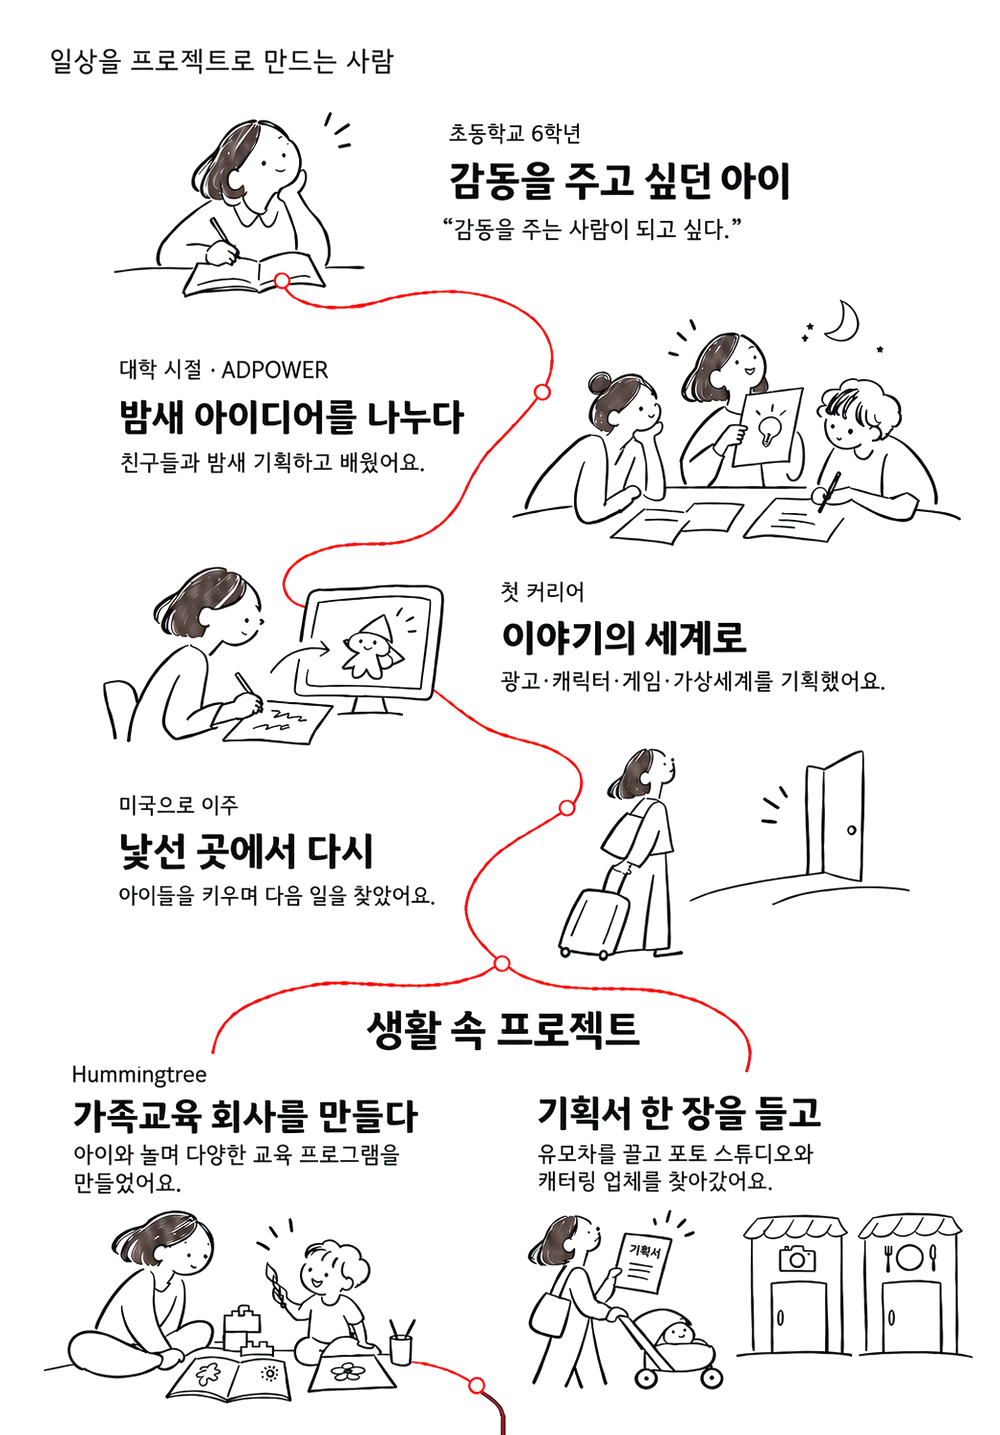
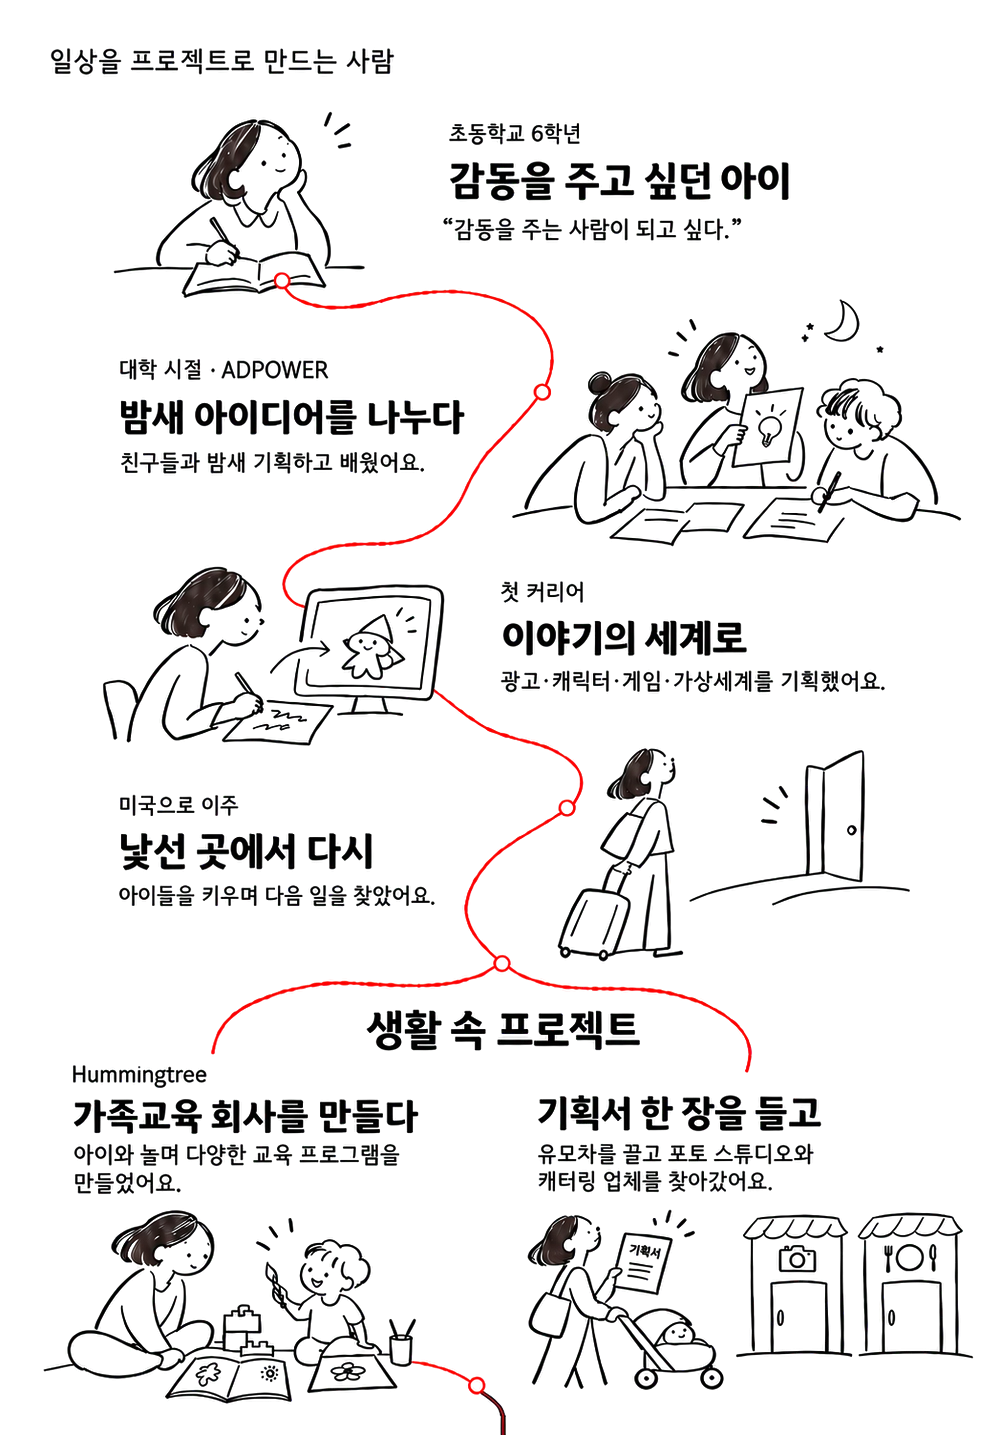
Show English story illustrations in the English view
The three story illustrations are lettered in Korean, so each now has an
English version: the same drawing with its text replaced by an English
translation set in Inter. The language switch shows only the matching
set, and because the images are lazy-loaded the hidden set is never
downloaded. Alt text and the card label are bilingual too.

Also re-exports the Korean images with a gentler paper threshold: the
light grey tag pills (라디오 코리아, 지금 · 함께하는 일, etc.) had been
bleached almost invisible.

Claude-Session: https://claude.ai/code/session_019GEG56SYYFRMRsvBGsGr5e

diff --git a/team/eunyoung.html b/team/eunyoung.html
@@ -423,6 +423,10 @@
   .story .role{padding:0 24px; margin-bottom:4px; font-family:var(--mono); font-size:11px; letter-spacing:0.22em; text-transform:uppercase; color:var(--ink-700);}
   .story a{display:block;}
   .story img{display:block; width:100%; height:auto;}
+  /* Each image comes in a Korean and an English version; the language script sets
+     <html lang> and only the matching set is shown. The images are lazy, so the hidden
+     set is never downloaded. */
+  html[lang="ko"] .story a.en, html:not([lang="ko"]) .story a.ko{display:none;}
 </style>
 </head>
 <body>
@@ -462,9 +466,12 @@
 
         <section class="card story" aria-labelledby="eunyoung-story">
           <div class="role" id="eunyoung-story" data-i18n="eunyoung.story">The story so far</div>
-          <a href="/assets/team/eunyoung-story-1.webp" target="_blank" rel="noopener"><img src="/assets/team/eunyoung-story-1.webp" width="1000" height="1435" alt="일상을 프로젝트로 만드는 사람: 감동을 주고 싶던 초등학생, 대학 시절 ADPOWER에서 밤새 나눈 아이디어, 광고·캐릭터·게임을 기획한 첫 커리어, 미국 이주, 가족교육 회사 Hummingtree와 기획서 한 장으로 시작한 생활 속 프로젝트." decoding="async"></a>
-          <a href="/assets/team/eunyoung-story-2.webp" target="_blank" rel="noopener"><img src="/assets/team/eunyoung-story-2.webp" width="1000" height="1374" alt="가족의 대화에서 AI 제품까지: 라디오 코리아의 가족 영화 토론 프로그램, 이민 여성의 새 출발을 도운 Simple Steps, 청소년과 가족을 위한 배움의 장 Culture Dots, AI 서비스를 기획하고 출시한 Dotdotdot." loading="lazy" decoding="async"></a>
-          <a href="/assets/team/eunyoung-story-3.webp" target="_blank" rel="noopener"><img src="/assets/team/eunyoung-story-3.webp" width="1000" height="1436" alt="지금 만드는 일, 앞으로의 꿈: 가족이 서로를 이해하고 챙기도록 돕는 AI를 만드는 Homming, USC 대학원에서 에이징테크 공부, City of Bellevue에서 시민의 대화를 여는 일, 그리고 여든에 스탠드업 코미디언으로 데뷔하는 꿈." loading="lazy" decoding="async"></a>
+          <a class="ko" lang="ko" href="/assets/team/eunyoung-story-1.webp" target="_blank" rel="noopener"><img src="/assets/team/eunyoung-story-1.webp" width="1000" height="1435" alt="일상을 프로젝트로 만드는 사람: 감동을 주고 싶던 초등학생, 대학 시절 ADPOWER에서 밤새 나눈 아이디어, 광고·캐릭터·게임을 기획한 첫 커리어, 미국 이주, 가족교육 회사 Hummingtree와 기획서 한 장으로 시작한 생활 속 프로젝트." loading="lazy" decoding="async"></a>
+          <a class="en" lang="en" href="/assets/team/eunyoung-story-1-en.webp" target="_blank" rel="noopener"><img src="/assets/team/eunyoung-story-1-en.webp" width="1000" height="1435" alt="Someone who turns everyday life into projects: a sixth grader who wanted to move people, nights of sharing ideas at ADPOWER in college, a first career planning ads, characters and games, the move to the U.S., and everyday projects from the family education company Hummingtree to pitching with a single proposal." loading="lazy" decoding="async"></a>
+          <a class="ko" lang="ko" href="/assets/team/eunyoung-story-2.webp" target="_blank" rel="noopener"><img src="/assets/team/eunyoung-story-2.webp" width="1000" height="1374" alt="가족의 대화에서 AI 제품까지: 라디오 코리아의 가족 영화 토론 프로그램, 이민 여성의 새 출발을 도운 Simple Steps, 청소년과 가족을 위한 배움의 장 Culture Dots, AI 서비스를 기획하고 출시한 Dotdotdot." loading="lazy" decoding="async"></a>
+          <a class="en" lang="en" href="/assets/team/eunyoung-story-2-en.webp" target="_blank" rel="noopener"><img src="/assets/team/eunyoung-story-2-en.webp" width="1000" height="1374" alt="From family conversations to AI products: a film discussion program for families on Radio Korea, Simple Steps helping immigrant women start fresh, Culture Dots creating learning spaces for teens and families, and Dotdotdot, where she led the planning and launch of AI services." loading="lazy" decoding="async"></a>
+          <a class="ko" lang="ko" href="/assets/team/eunyoung-story-3.webp" target="_blank" rel="noopener"><img src="/assets/team/eunyoung-story-3.webp" width="1000" height="1436" alt="지금 만드는 일, 앞으로의 꿈: 가족이 서로를 이해하고 챙기도록 돕는 AI를 만드는 Homming, USC 대학원에서 에이징테크 공부, City of Bellevue에서 시민의 대화를 여는 일, 그리고 여든에 스탠드업 코미디언으로 데뷔하는 꿈." loading="lazy" decoding="async"></a>
+          <a class="en" lang="en" href="/assets/team/eunyoung-story-3-en.webp" target="_blank" rel="noopener"><img src="/assets/team/eunyoung-story-3-en.webp" width="1000" height="1436" alt="Now, and the dream ahead: Homming, an AI that helps families understand and care for each other; graduate study in AgeTech at USC; opening civic conversations with the City of Bellevue; and a dream of debuting as a stand-up comic at 80." loading="lazy" decoding="async"></a>
         </section>
       </div>
       <div class="more"><a href="/team" data-i18n="all">Everyone at Homming &rarr;</a></div>

diff --git a/scripts/build_team.py b/scripts/build_team.py
@@ -46,17 +46,28 @@ PEOPLE = [
             ],
         },
         "links": [],
-        # Illustrated timeline shown below the intro on her own page only. The three images
-        # continue one red thread, so they are stacked without gaps in this order.
+        # Illustrated timeline shown below the intro on her own page only. The art is lettered,
+        # so each image has a Korean original and an English version (same drawing, text
+        # replaced); the language switch shows one set. The three images continue one red
+        # thread, so they are stacked without gaps in this order.
         "story": {
             "label": {"en": "The story so far", "ko": "지금까지의 이야기"},
             "images": [
-                ("/assets/team/eunyoung-story-1.webp", 1000, 1435,
-                 "일상을 프로젝트로 만드는 사람: 감동을 주고 싶던 초등학생, 대학 시절 ADPOWER에서 밤새 나눈 아이디어, 광고·캐릭터·게임을 기획한 첫 커리어, 미국 이주, 가족교육 회사 Hummingtree와 기획서 한 장으로 시작한 생활 속 프로젝트."),
-                ("/assets/team/eunyoung-story-2.webp", 1000, 1374,
-                 "가족의 대화에서 AI 제품까지: 라디오 코리아의 가족 영화 토론 프로그램, 이민 여성의 새 출발을 도운 Simple Steps, 청소년과 가족을 위한 배움의 장 Culture Dots, AI 서비스를 기획하고 출시한 Dotdotdot."),
-                ("/assets/team/eunyoung-story-3.webp", 1000, 1436,
-                 "지금 만드는 일, 앞으로의 꿈: 가족이 서로를 이해하고 챙기도록 돕는 AI를 만드는 Homming, USC 대학원에서 에이징테크 공부, City of Bellevue에서 시민의 대화를 여는 일, 그리고 여든에 스탠드업 코미디언으로 데뷔하는 꿈."),
+                {"w": 1000, "h": 1435,
+                 "ko": ("/assets/team/eunyoung-story-1.webp",
+                        "일상을 프로젝트로 만드는 사람: 감동을 주고 싶던 초등학생, 대학 시절 ADPOWER에서 밤새 나눈 아이디어, 광고·캐릭터·게임을 기획한 첫 커리어, 미국 이주, 가족교육 회사 Hummingtree와 기획서 한 장으로 시작한 생활 속 프로젝트."),
+                 "en": ("/assets/team/eunyoung-story-1-en.webp",
+                        "Someone who turns everyday life into projects: a sixth grader who wanted to move people, nights of sharing ideas at ADPOWER in college, a first career planning ads, characters and games, the move to the U.S., and everyday projects from the family education company Hummingtree to pitching with a single proposal.")},
+                {"w": 1000, "h": 1374,
+                 "ko": ("/assets/team/eunyoung-story-2.webp",
+                        "가족의 대화에서 AI 제품까지: 라디오 코리아의 가족 영화 토론 프로그램, 이민 여성의 새 출발을 도운 Simple Steps, 청소년과 가족을 위한 배움의 장 Culture Dots, AI 서비스를 기획하고 출시한 Dotdotdot."),
+                 "en": ("/assets/team/eunyoung-story-2-en.webp",
+                        "From family conversations to AI products: a film discussion program for families on Radio Korea, Simple Steps helping immigrant women start fresh, Culture Dots creating learning spaces for teens and families, and Dotdotdot, where she led the planning and launch of AI services.")},
+                {"w": 1000, "h": 1436,
+                 "ko": ("/assets/team/eunyoung-story-3.webp",
+                        "지금 만드는 일, 앞으로의 꿈: 가족이 서로를 이해하고 챙기도록 돕는 AI를 만드는 Homming, USC 대학원에서 에이징테크 공부, City of Bellevue에서 시민의 대화를 여는 일, 그리고 여든에 스탠드업 코미디언으로 데뷔하는 꿈."),
+                 "en": ("/assets/team/eunyoung-story-3-en.webp",
+                        "Now, and the dream ahead: Homming, an AI that helps families understand and care for each other; graduate study in AgeTech at USC; opening civic conversations with the City of Bellevue; and a dream of debuting as a stand-up comic at 80.")},
             ],
         },
     },
@@ -167,6 +178,10 @@ STORY_CSS = """<style>
   .story .role{padding:0 24px; margin-bottom:4px; font-family:var(--mono); font-size:11px; letter-spacing:0.22em; text-transform:uppercase; color:var(--ink-700);}
   .story a{display:block;}
   .story img{display:block; width:100%; height:auto;}
+  /* Each image comes in a Korean and an English version; the language script sets
+     <html lang> and only the matching set is shown. The images are lazy, so the hidden
+     set is never downloaded. */
+  html[lang="ko"] .story a.en, html:not([lang="ko"]) .story a.ko{display:none;}
 </style>"""
 
 
@@ -191,19 +206,19 @@ def card(p: dict, lang: str = "en") -> str:
         </article>'''
 
 
-def story(p: dict, lang: str = "en") -> str:
+def story(p: dict) -> str:
     s = p.get("story")
     if not s:
         return ""
     imgs = "\n".join(
-        f'          <a href="{src}" target="_blank" rel="noopener"><img src="{src}" width="{w}" height="{h}" alt="{alt}"'
-        f'{"" if i == 0 else " loading=\"lazy\""} decoding="async"></a>'
-        for i, (src, w, h, alt) in enumerate(s["images"])
+        f'          <a class="{lang}" lang="{lang}" href="{img[lang][0]}" target="_blank" rel="noopener">'
+        f'<img src="{img[lang][0]}" width="{img["w"]}" height="{img["h"]}" alt="{img[lang][1]}" loading="lazy" decoding="async"></a>'
+        for img in s["images"] for lang in ("ko", "en")
     )
     return f'''
 
         <section class="card story" aria-labelledby="{p["slug"]}-story">
-          <div class="role" id="{p["slug"]}-story" data-i18n="{p["slug"]}.story">{s["label"][lang]}</div>
+          <div class="role" id="{p["slug"]}-story" data-i18n="{p["slug"]}.story">{s["label"]["en"]}</div>
 {imgs}
         </section>'''
 
